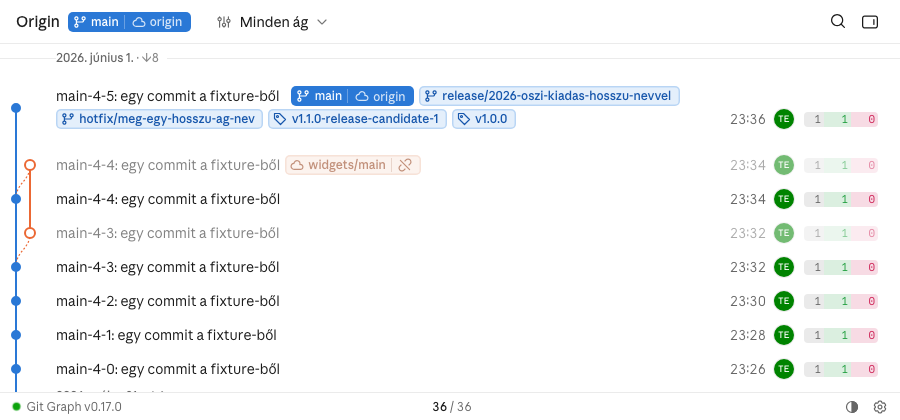
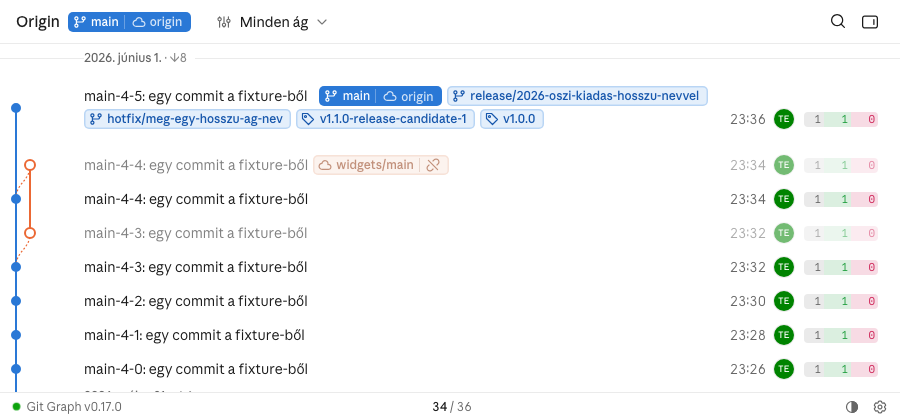
docs(merge-collapse): funkcióoldal a merge-ek összecsukásáról, frissített képek
Új oldal: a gyűrűs merge-pont, a merge birtoka (a ref-es commit látszik, alatta
szaggatott él), a „+N” és a nyíl, a kétrészes sor, a 200 ms-os animáció és a
repónkénti kapcsoló, R-1–R-8 követelményekkel. A lista és a README belépője
bővül; a képek (a gráfoszlop szélesebb, a fixture egyik merge-e összecsukva)
újragenerálva, a merge-képek a `MergeShots`-ból.

Refs #65

diff --git a/scripts/screenshots.py b/scripts/screenshots.py
@@ -16,6 +16,7 @@ ROOT = Path(__file__).resolve().parent.parent
 sys.path.insert(0, str(ROOT / "tests" / "page"))
 from test_full_view import FullViewTest  # noqa: E402
 from test_header import HeaderCase  # noqa: E402
+from test_merges import ForkTest  # noqa: E402
 from test_subtree import SubtreeTest  # noqa: E402
 from test_wip_layer import WipCase  # noqa: E402
 
@@ -106,7 +107,23 @@ class WipShots(WipCase):
             "x": diff["x"] - 4, "y": top, "width": diff["width"] + 8, "height": min(520, diff["y"] + diff["height"] - top + 4)})
 
 
-SHOTS = [SubtreeShots, HeaderShots, FullViewShots, WipShots]
+class MergeShots(ForkTest):
+    """Merge-ek összecsukása: összecsukva (a gráfoszlop fölött az egérrel) és kibontva."""
+
+    WIDTH, HEIGHT = 700, 330
+
+    def test_shots(self) -> None:
+        out = folder("merge-collapse")
+        hit = self.row("Merge branch 'feat/login'").locator(".merge-hit")
+        hit.hover(position={"x": 4, "y": 4})
+        self.settle()
+        self.page.screenshot(path=str(out / "collapsed.png"), clip={"x": 0, "y": 0, "width": 700, "height": 248})
+        hit.click(position={"x": 4, "y": 4})
+        self.settle()
+        self.page.screenshot(path=str(out / "expanded.png"))
+
+
+SHOTS = [SubtreeShots, HeaderShots, FullViewShots, WipShots, MergeShots]
 # Csak a képek készülnek, a fixture-osztályok saját tesztjei nem.
 for shots in SHOTS:
     for name in [n for n in dir(shots.__mro__[1]) if n.startswith("test_")]:

diff --git a/docs/merge-collapse.md b/docs/merge-collapse.md
@@ -1,0 +1,201 @@
+# Merge-ek összecsukása
+
+A merge-commit a gráf fő pontja: gyűrűs pöttyel kiemelkedik, a beolvasztott commitjai alapból
+alá csukódnak, és merge-enként a gráfoszlopra kattintva kibonthatók. Így a sok merge-dzsel
+dolgozó repó listája a fő vonalakra szűkül, a részlet pedig egy kattintásra elérhető.
+
+## Működés
+
+![Összecsukott merge: a pöttye mellett „+2” és a nyíl, a beolvasztott ágból leágazó „side” branch szaggatott éllel](img/merge-collapse/collapsed.png)
+
+![Ugyanez kibontva: a beolvasztott commitok a merge alatt, a nyíl felfelé mutat](img/merge-collapse/expanded.png)
+
+### A merge pontja
+
+Telt mag gyűrűvel, egy színben (a merge sávjáé), köztük háttérszínű rés; a friss merge udvara
+10 px (a sima commité 8 px). A subject a sima commitéval egyező színű, picit vastagabb
+(`--w-medium`). A WIP-sor, a stash és a tükör-commit pontja üres karika marad.
+
+### Mi kerül a merge alá
+
+A merge birtoka az, amit a 2. (vagy további) szülőjén át hozott be, vagyis a `git log M^1..M`.
+A lap számolja (`page/js/merges.js`), szerverhívás nélkül: a merge-eket a régebbitől
+az újabb felé járja be, így a beágyazott merge a saját ágát birtokolja, a külső a belső merge-et
+és a saját ágát. A ref-es commit (lokális és remote branch, tag, HEAD, stash, WIP, worktree
+HEAD-je, gyerek nélküli commit) maga mindig látszik, mert a chipjének sor kell; az alatta lévő
+beolvasztott lánc viszont rejtett, és szaggatott él köti az első látható commithoz. Ugyanígy az
+összecsukott merge éle: a rejtett ág sávjában, szaggatottan fut a cél fölé. Ha a merge 2.
+szülője a merge alatti látható sorból ágazik, él nincs. A csupa rejtett commitból álló napnak
+nincs fejléce.
+
+### A szám és a nyíl
+
+Összecsukva a merge pöttye mellett, a gráfoszlopban `+N` áll: a kibontáskor közvetlenül
+megjelenő sorok száma (a belső merge-ek alá rejtettek és a ref-es commitok nem számítanak).
+Halvány, a beolvasztott ág (2. szülő) színével tintelt kis címke vékony kerettel, 11 px-es
+betűvel; a háttere a gráf vonalát is takarja. Utána, csak a merge gráfoszlopa fölött, a nyíl:
+a lenyíló menü 16 px-es CaretDown-ja, ugyanabban a színben, háttér nélkül; összecsukva jobbra,
+kibontva felfelé mutat, és a lenyílt ág vonalától jobbra áll.
+
+### Kétrészes sor
+
+A sor sávja (subject, idő, avatar, diff) kap szürke hover-kiemelést, és a commitot nyitja. A
+merge gráfoszlopa (a sávig) a merge kapcsolója: kibont vagy összecsuk, a `+N`-re kattintva is;
+a commit-panelt nem nyitja. A sima commit gráfoszlopa nem reagál: nincs kiemelés, nincs nyíl,
+nem nyit semmit. Billentyűvel a merge nem bontható ki.
+
+### Animáció
+
+Kibontáskor a megjelenő sorok magassága 200 ms alatt 0-ról nő, a gráf vonala képkockánként
+velük nyúlik; közben a szám összemegy (az út második felében 20 %-ig halványul), a nyíl
+utánacsúszik a pötty mellé, és 90°-ot fordul jobbról felfelé. Összecsukáskor fordítva, ugyanazzal
+a görbével, mint a sorok felcsukódása: a sorok 200 ms alatt 0-ra csukódnak, és csak utána tűnnek
+el; közben a szám 0 szélességről nő (20 %-os fedésről, félúton teljes), maga előtt tolva a
+jobbra forduló nyilat; a három egyszerre ér véget. A forgatás szögekkel animál (−90° ↔ −180°),
+mert a mátrixok közti átmenet tükrözésnek bomlana. Az újrarajzolt nyíl nem villan: amíg az egér
+a gráfoszlopon marad, a `.hover` osztály átmenet nélkül tartja látszón. A
+`prefers-reduced-motion` szabály ezt is leállítja.
+
+### Állapot és beállítás
+
+A merge-enkénti kézi állapot csak a lap memóriájában él: az élő frissítés megtartja, az
+újratöltés az alapállapotra állítja. Az alapállapot repónkénti beállítás, a fogaskerék-menü
+„Merge-ek összecsukása” kapcsolója (`git-graph.collapseMerges` a `.git/config`-ban, a
+`settings` tool írja; hiányzó kulcs = bekapcsolva). A váltása törli a kézi állapotokat. A
+`graph_data` a `meta.collapseMerges`-ben hozza, így már az első rajzolás a repó beállítását
+követi. Ha egy cél rejtett commitra mutat (keresési találat, a nyitott commit-panel, ugrás a
+szülőre), a tartalmazó merge-ek kibontódnak.
+
+## Követelmények
+
+```gherkin
+Jellemző: Merge-ek összecsukása
+
+  Szabály: R-1 — A merge pontja egyszínű telt mag gyűrűvel, a subjectje picit vastagabb
+    Forgatókönyv: Kétszülős commit a gráfban
+      Adott egy repó, ahol a "Merge branch 'feat/login'" commitnak két szülője van
+      Ha a User megnyitja a lapot
+      Akkor a merge pontja egy 3,5 px sugarú telt mag, körülötte 6 px sugarú, 2 px vastag gyűrű
+        És a mag és a gyűrű is a merge sávjának színe, köztük háttérszínű rés
+        És a subject színe a sima commité, a vastagsága picit nagyobb
+
+    Forgatókönyv: Új merge-commit udvara
+      Adott egy merge-commit, amely a lap megnyitása óta érkezett
+      Ha a lap kirajzolja
+      Akkor a merge pontja körül 10 px sugarú udvar van, egy sima commit körül 8 px
+
+  Szabály: R-2 — Amit a merge a 2. szülőjén át hozott be, összecsukva rejtett; a ref-es commit látszik
+    Forgatókönyv: Törölt branch beolvasztott commitjai
+      Adott a "main"-en "Indulás", "README javítás" és a "feat/login" merge-e, a branch törölve
+      Ha a User megnyitja a lapot
+      Akkor a lista sorai: "Merge branch 'feat/login'", "README javítás", "Indulás"
+
+    Forgatókönyv: A beolvasztott ágból leágazó branch
+      Adott a "Login váz"-ból leágazó, megmaradt "side" branch a "Mellékág" committal
+      Ha a User megnyitja a lapot
+      Akkor a "Mellékág" látszik, a "Login váz" rejtett
+        És a "Mellékág"-tól az "Indulás"-ig szaggatott él fut
+
+    Forgatókönyv: Tag a beolvasztott ágon
+      Adott a "Login váz" commiton a "v0.9" tag
+      Ha a User megnyitja a lapot
+      Akkor a "Login váz" a chipjével látszik, a "Login űrlap" rejtett
+        És a merge-től a "Login váz"-ig szaggatott, onnan folytonos él fut
+
+    Forgatókönyv: Szomszédos kiindulópont
+      Adott egy merge, amelynek 2. szülője a merge alatti látható sorból ágazik
+      Ha a lap kirajzolja a gráfot
+      Akkor a merge-ből nem indul él a 2. szülő felé
+
+    Forgatókönyv: Napfejléc csak látható sor fölött
+      Adott egy nap, amelynek minden commitja rejtett
+      Ha a User megnyitja a lapot
+      Akkor annak a napnak nincs fejléce, kibontás után visszajön
+
+  Szabály: R-3 — Összecsukva a pötty mellett "+N" áll a beolvasztott ág színében
+    Forgatókönyv: A rejtett sorok száma
+      Adott egy összecsukott merge két rejtett commit fölött
+      Ha a User megnyitja a lapot
+      Akkor a pöttye mellett "+2" áll, halvány tint címkeként kerettel
+        És a szám és a nyíl színe a beolvasztott ág sávszíne
+
+    Forgatókönyv: Belső merge saját számmal
+      Adott egy összecsukott merge, amelynek ágában egy összecsukott belső merge van
+      Ha a User kibontja a külső merge-et
+      Akkor a belső merge összecsukva, saját számmal jelenik meg
+
+  Szabály: R-4 — A sor sávja a commitot, a merge gráfoszlopa a merge-et nyitja
+    Forgatókönyv: Hoverkor megjelenő nyíl
+      Adott egy összecsukott merge-sor
+      Ha a User a merge gráfoszlopa fölé viszi az egeret
+      Akkor a "+2" után jobbra mutató, 16 px-es nyíl jelenik meg
+        És a sor sávja fölött a nyíl nem látszik
+
+    Forgatókönyv: Kibontás a gráfoszlopra kattintva
+      Adott egy összecsukott merge-sor
+      Ha a User a merge gráfoszlopára kattint (a "+2"-re is)
+      Akkor a beolvasztott commitok a merge alá kerülnek, a commit-panel nem nyílik meg
+
+    Forgatókönyv: A sima commit gráfoszlopa nem reagál
+      Adott egy nem merge commit sora
+      Ha a User a gráfoszlopa fölé viszi az egeret, és rákattint
+      Akkor nincs kiemelés, nincs nyíl, és nem nyílik meg semmi
+        És a sor sávjára kattintva a commit-panel nyílik
+
+  Szabály: R-5 — A kibontás és az összecsukás 200 ms-os animáció, a szám és a nyíl a sorokkal mozog
+    Forgatókönyv: Kibontás
+      Adott egy összecsukott merge "+2" számmal
+      Ha a User kibontja
+      Akkor a sorok 200 ms alatt lenyílnak, a gráf velük nyúlik
+        És közben a szám összemegy és halványul, a nyíl a pötty mellé csúszik, és felfelé fordul
+
+    Forgatókönyv: Összecsukás
+      Adott egy kibontott merge
+      Ha a User összecsukja
+      Akkor a sorok 200 ms alatt felcsukódnak, és csak utána tűnnek el
+        És közben a szám 20 %-os fedésről nő, maga előtt tolva a jobbra forduló nyilat
+        És a három egyszerre ér véget, a nyíl végig látszik
+
+  Szabály: R-6 — A kézi állapot az újratöltésig él
+    Forgatókönyv: Élő frissítés
+      Adott egy kézzel kibontott merge
+      Ha új commit érkezik a repóba
+      Akkor a merge kibontva marad
+
+    Forgatókönyv: Újratöltés
+      Adott egy kézzel kibontott merge
+      Ha a User újratölti a lapot
+      Akkor a merge újra összecsukva jelenik meg
+
+  Szabály: R-7 — Rejtett commitra mutató cél kibontja a tartalmazó merge-et
+    Forgatókönyv: Keresési találat
+      Adott egy összecsukott merge alatt a "Login űrlap"
+      Ha a User a keresőbe írja: "Login űrlap"
+      Akkor a merge kibontódik, és a "Login űrlap" találatként látszik
+
+    Forgatókönyv: Nyitott panel commitja
+      Adott a "Login űrlap" commit-panelje nyitva, kibontott merge alatt
+      Ha a User bekapcsolja a "Merge-ek összecsukása" beállítást
+      Akkor a merge kibontva marad, a panel nyitva
+
+  Szabály: R-8 — A "Merge-ek összecsukása" repónkénti beállítás, alapból bekapcsolva
+    Forgatókönyv: Kapcsoló a fogaskerék-menüben
+      Adott a lap nyitott fogaskerék-menüvel
+      Ha a User kikapcsolja a "Merge-ek összecsukása" kapcsolót
+      Akkor minden beolvasztott commit látszik, és a kézi állapotok törlődnek
+        És a ".git/config"-ban "git-graph.collapseMerges = false" áll
+
+    Forgatókönyv: Az első rajzolás a repó beállítását követi
+      Adott egy repó "git-graph.collapseMerges = false" beállítással
+      Ha a User megnyitja a lapot
+      Akkor az első lista kibontott, nem villan fel összecsukva
+```
+
+## Használat
+
+- **Kibontás, összecsukás**: kattintás a merge-sor gráfoszlopára (a pötty, a `+N` vagy a nyíl
+  környéke); a sor többi része a commitot nyitja.
+- **Alapállapot repónként**: a lábléc fogaskerék-menüje → „Merge-ek összecsukása”; vagy a
+  `settings` tool `collapseMerges` mezője.
+- **Képek**: `uv run --no-project --with playwright==1.63.0 python scripts/screenshots.py`
+  (`MergeShots`, a `tests/page/test_merges.py` fixture-repójából).

diff --git a/README.md b/README.md
@@ -321,6 +321,11 @@ színek: a 0. sáv a Claude narancs, a többi vele egyező telítettségű. A vo
 annak a sávnak a színét viseli, amelyben a hossza nagy részén fut: a merge-vonal
 a beolvasztott ágét, a leágazó a saját ágáét.
 
+A **merge-commit** pöttye telt mag gyűrűvel. A beolvasztott commitjai alapból alá csukódnak
+(a ref-es commitok maguk látszanak, alattuk szaggatott él); a pötty mellett `+N` áll, a merge
+gráfoszlopára kattintva animálva kibomlik. A fogaskerék-menü „Merge-ek összecsukása” kapcsolója
+repónként állítja az alapot ([Merge-ek összecsukása](docs/merge-collapse.md)).
+
 A **friss commitok** pöttye körül halvány gyűrű van, az üzenetük a gyűrű (a
 sáv) színét kapja. Friss a legújabb commit és a vele egy sorozatban készültek:
 visszafelé addig, amíg két szomszéd között legfeljebb 10 mp telt el — minden

diff --git a/docs/README.md b/docs/README.md
@@ -8,6 +8,7 @@ A git-graph funkciói, funkciónként egy oldal: mit tud most, és hogyan műkö
 | [Fájl-diff](file-diff.md) | a commit fájljainak diffje: szöveg, renderelt markdown, képek |
 | [Kóddiff és szerkesztés](code-diff.md) | a CodeMirror-kóddiff, a szerkesztés és mentés, a HEAD-commit WIP-rétege |
 | [Fájlfa és teljes nézet](full-view.md) | a fájlfa sidebarban és teljes képernyőn, diff-szűrő, kereső, commitlista |
+| [Merge-ek összecsukása](merge-collapse.md) | gyűrűs merge-pont, a beolvasztott commitok a merge alatt, kibontás a gráfoszlopra kattintva, animálva; repónkénti kapcsoló |
 | [Subtree-remote](subtree-remote.md) | a `git subtree split` / `push` remote-ja: független történet a chipen, tükör-commitok, remote szerinti szűrő |
 
 Fejlesztői háttér (a szabályok indoklása, mérések, döntések): a memória,
